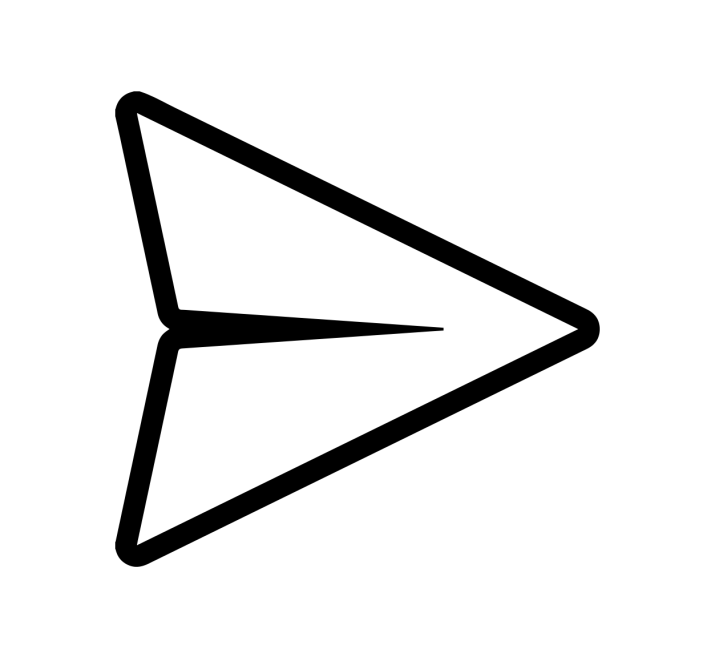
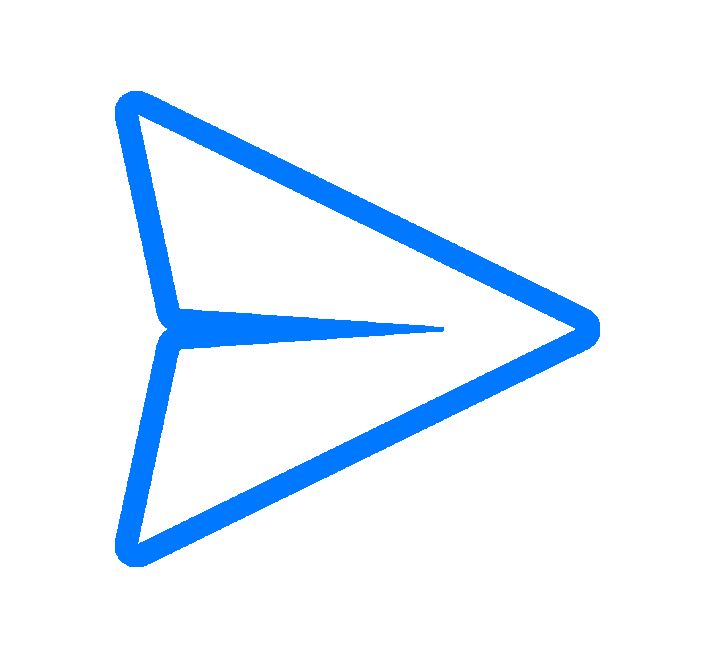
Updated match UI

Changed region(s): [[0.1538, 0.1218, 0.8615, 0.8828]]

diff --git a/src/components/match/chat.js b/src/components/match/chat.js
@@ -3,6 +3,7 @@ import React, { Component } from 'react';
 import { withFirebase } from '../firebase';
 import { withSession } from '../session';
 import { isMobile } from 'react-device-detect';
+import { getFormattedDate } from '../../util';
 
 import SendIcon from '../../assets/send-icon.png';
 
@@ -12,7 +13,8 @@ class ChatDisplay extends Component {
         this.state = {
             messages: null,
             messageCount: null,
-            input: ''
+            input: '',
+            sendHover: false
         }
     }
 
@@ -47,10 +49,6 @@ class ChatDisplay extends Component {
                 {/* messages */}
                 <div
                     style={{
-                        display: 'flex',
-                        alignItems: 'center',
-                        flexDirection: 'column',
-
                         height: '100%',
                         overflow: 'scroll'
                     }}
@@ -59,29 +57,74 @@ class ChatDisplay extends Component {
                         const belongsToUser = Boolean(message.name === this.props.user.displayName);
                         const matchesAboveUser = Boolean((index > 0) && (message.name === this.state.messages[index - 1].name));
                         const matchesBelowUser = Boolean((index < (this.state.messageCount - 1)) && (message.name === this.state.messages[index + 1].name));
+                        const timeSinceLast = (index > 0) ? message.timestamp.seconds - this.state.messages[index - 1].timestamp.seconds : 3600;
 
                         return (
                             <div 
-                                key={message.timestamp}
+                                key={'main' + message.timestamp}
                                 style={{
-                                    alignSelf: belongsToUser ? 'flex-end' : 'flex-start',
-
-                                    maxWidth: '250px',
-                                    padding: '5px',
-                                    paddingLeft: '10px',
-                                    paddingRight: '12px',
-                                    marginBottom: '2px',
-
-                                    fontSize: isMobile ? '11px' : '12px',
-                                    borderTopRightRadius: (belongsToUser && matchesAboveUser) ? '3px' : '15px',
-                                    borderBottomRightRadius: (belongsToUser && matchesBelowUser) ? '3px' : '15px',
-                                    borderTopLeftRadius: (!belongsToUser && matchesAboveUser) ? '3px' : '15px',
-                                    borderBottomLeftRadius: (!belongsToUser && matchesBelowUser) ? '3px' : '15px',
-                                    backgroundColor: belongsToUser ? '#0078FF' : '#e9e9e9',
-                                    color: belongsToUser ? 'white' : 'black'
+                                    display: 'flex',
+                                    alignItems: 'center',
+                                    flexDirection: 'column'
                                 }}
                             >
-                                {message.content}
+
+                                {/* message time */}
+                                {(timeSinceLast >= 3600) &&
+                                    <div
+                                        key={'time' + message.timestamp}
+                                        style={{
+                                            margin: '10px',
+                                            fontSize: '12px',
+                                            color: '#919191'
+                                        }}
+                                    >
+                                        {getFormattedDate(message.timestamp.seconds).toUpperCase()}
+                                    </div>
+                                }
+
+
+                                {/* user tag */}
+                                {!belongsToUser && !matchesAboveUser && 
+                                    <div
+                                        key={'user' + message.timestamp}
+                                        style={{
+                                            alignSelf: 'flex-start',
+
+                                            marginLeft: '10px',
+                                            marginBottom: '5px',
+
+                                            fontSize: '11px',
+                                            color: '#919191'
+                                        }} 
+                                    >
+                                        {message.name}
+                                    </div>
+                                }
+
+                                {/* message bubble */}
+                                <div 
+                                    key={'message' + message.timestamp}
+                                    style={{
+                                        alignSelf: belongsToUser ? 'flex-end' : 'flex-start',
+
+                                        maxWidth: isMobile ? '235px' : '350px',
+                                        padding: '5px',
+                                        paddingLeft: '10px',
+                                        paddingRight: '12px',
+                                        marginBottom: '2px',
+
+                                        fontSize: isMobile ? '11px' : '12px',
+                                        borderTopRightRadius: (belongsToUser && matchesAboveUser) ? '3px' : '15px',
+                                        borderBottomRightRadius: (belongsToUser && matchesBelowUser) ? '3px' : '15px',
+                                        borderTopLeftRadius: (!belongsToUser && matchesAboveUser) ? '3px' : '15px',
+                                        borderBottomLeftRadius: (!belongsToUser && matchesBelowUser) ? '3px' : '15px',
+                                        backgroundColor: belongsToUser ? '#0078FF' : '#e9e9e9',
+                                        color: belongsToUser ? 'white' : 'black'
+                                    }}
+                                >
+                                    {message.content}
+                                </div>
                             </div>
                         );
                     })}
@@ -113,7 +156,7 @@ class ChatDisplay extends Component {
                         rows={1}
                         style={{
                             height: '36px',
-                            width: '78%',
+                            width: isMobile ? '78%' : '65%',
                             padding: '10px',
                             paddingLeft: '15px',
                             paddingRight: '15px',
@@ -130,15 +173,20 @@ class ChatDisplay extends Component {
                     />
 
                     <img 
-
+                        onMouseEnter={() => { this.setState({ sendHover: true }); }}
+                        onMouseLeave={() => { this.setState({ sendHover: false }); }}
                         src={SendIcon}
                         alt='Send Icon'
                         style={{
-                            height: '33px',
+                            height: '35px',
+                            width: '35px',
                             marginLeft: isMobile ? '15px' : '23px',
+                            padding: '4px',
+                            paddingRight: '0px',
 
+                            borderRadius: '20px',
+                            backgroundColor: this.state.sendHover ? '#eeeeee' : '#f9f9f9',
                             cursor: 'pointer',
-                            filter: 'invert(37%) sepia(68%) saturate(5134%) hue-rotate(201deg) brightness(101%) contrast(105%)'
                         }}
                     />
                 </div>

diff --git a/src/util.js b/src/util.js
@@ -40,3 +40,12 @@ export function getCurrentMatchingDate() {
     now.setUTCDate(now.getUTCDate() + (12 - now.getUTCDay()) % 7 - 7);
     return (now.getUTCMonth() + 1) + '-' + now.getUTCDate() + '-' + now.getUTCFullYear();
 }
+
+// get formatted date for chat
+export function getFormattedDate(epochSeconds) {
+    const monthNames = ['January', 'February', 'March', 'April', 'May', 'June', 
+        'July', 'August', 'September', 'October', 'November', 'December'];
+    const date = new Date(epochSeconds * 1000);
+    return monthNames[date.getMonth()] + ' ' + date.getDate() + ' at ' 
+        + date.toLocaleString('en-US', { hour: 'numeric', minute: 'numeric', hour12: true })
+}

diff --git a/src/components/match/auth.js b/src/components/match/auth.js
@@ -129,6 +129,7 @@ class AuthMatchPage extends Component {
                             current={this.state.current}
                             matchId={this.state.matchId}
                             setFetching={state => { this.setState({ fetching: state }); }}
+                            setError={this.props.setError}
                         />
                     }
 
